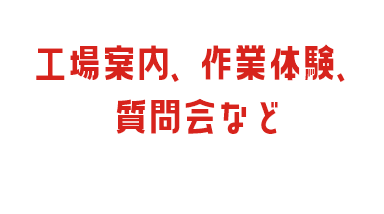
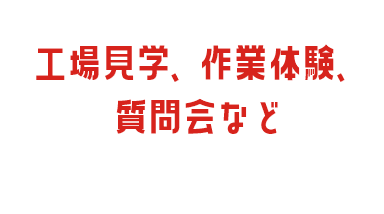
採用お問い合わせページの追加

Changed region(s): [[0.25, 0.1963, 0.4375, 0.3925]]

diff --git a/www/recruitment.html b/www/recruitment.html
@@ -184,14 +184,14 @@
 						その一例が、一般の方々が手に取りやすい直営店舗の運営やネット通販事業など、<br>
 						お客様個々のニーズにも対応したビジネスモデルです。<br>
 
-						総合フードサービスカンパニーとして、これからも「おいしいものをおいしいまま、早く、安心してお届する」<br>
+						総合フードサービスカンパニーとして、これからも「おいしいものをおいしいまま、早く、安心してお届けする」<br>
 						ことを安定して提供し続けられるよう努力し続けることが私たちの使命です。</p>
 
 
 						
 					<div class="wp-block-buttons is-layout-flex wp-block-buttons-is-layout-flex tC sM-l">
 						<div class="wp-block-button is-style-button-style-1">
-							<a class="wp-block-button__link wp-element-button" href="./contact">お問い合わせフォームはこちら</a>
+							<a class="wp-block-button__link wp-element-button" href="./recruitment-contact">今すぐ申し込む（見学・体験・応募）</a>
 						</div>
 					</div>
 
@@ -223,7 +223,7 @@
 									<div class="recruitmentAboutBox__stepBox">
 										<dl>
 											<dt><span>商品を知る</span></dt>
-											<dd>入庫・ピッキング業務などを<br class="hidden-sp">通じて当社の取扱う商品の<br>知識をつけましょう！</dd>
+											<dd>入庫・ピッキング業務などを<br class="hidden-sp">通じて当社の取り扱う商品の知識をつけましょう！</dd>
 										</dl>
 										<dl>
 											<dt><span>知識の拡大</span></dt>
@@ -236,7 +236,7 @@
 									<!-- /.recruitmentAboutBox__stepBox --></div>
 									<div class="recruitmentAboutBox__pointBox">
 										<figure><img src="img/recruitment/imgPoint.png" alt="ポイント"></figure>
-										<p>的確なオペレーション実現のため<br>チームワークを大切にしています！</p>
+										<p>的確なオペレーションを実現するために<br>チームワークを大切にしています！</p>
 									<!-- /.recruitmentAboutBox__pointBox --></div>
 									<figure class="recruitmentAboutBox__sectionImage">
 											<img src="img/recruitment/illustWork01.png" alt="音声システムや自動倉庫など設備機器を使ったお仕事もできます！" class="wide">
@@ -273,7 +273,7 @@
 																	</dl>
 																	<dl>
 																		<dt><span>業務の理解</span></dt>
-																		<dd>営業の流れやコツを少しづつ覚えていきましょう。先輩社員からの指導で効率よく身につきます。</dd>
+																		<dd>営業の流れやコツを少しずつ覚えていきましょう。先輩社員からの指導で効率よく身につきます。</dd>
 																	</dl>
 																	<dl>
 																		<dt><span>関係づくり</span></dt>
@@ -323,7 +323,7 @@
 																<div class="recruitmentAboutBox__stepBox">
 																	<dl>
 																		<dt><span>商品を知る</span></dt>
-																		<dd>入庫・ピッキング業務などを通じて当社の取扱う商品の<br class="hidden-sp">知識をつけましょう！</dd>
+																		<dd>入庫・ピッキング業務などを通じて当社の取扱う商品の知識をつけましょう！</dd>
 																	</dl>
 																	<dl>
 																		<dt><span>手順の理解</span></dt>
@@ -379,7 +379,7 @@
 																	</dl>
 																	<dl>
 																		<dt><span>ひとり立ち</span></dt>
-																		<dd>それぞれの業務を覚えたら、1日の流れに沿って各作業をこなしていきます。柔軟に受注内容の変更対応を行うことも</dd>
+																		<dd>それぞれの業務を覚えたら、1日の流れに沿って各作業を進めていきます。柔軟に受注内容の変更対応を行うこともできます。</dd>
 																	</dl>
 																	<dl>
 																		<dt><span>チャレンジ！</span></dt>
@@ -543,7 +543,7 @@
 
 							<div class="wp-block-buttons is-layout-flex wp-block-buttons-is-layout-flex tC sM-l">
 								<div class="wp-block-button is-style-button-style-1">
-									<a class="wp-block-button__link wp-element-button" href="./contact">お問い合わせフォームはこちら</a>
+									<a class="wp-block-button__link wp-element-button" href="#contactInformation">お問い合わせはこちら</a>
 								</div>
 							</div>
 						<!-- /.inBase__inner --></div>
@@ -562,11 +562,11 @@
 										ぜひお仕事体験にご参加ください！<br>
 										<b>場所：オーディエー株式会社 本社</b>
 									</p>
-									<figure class="recruitmentExperienceBox__fukidashi"><img src="img/recruitment/imgFukidashi01.png" alt="工場案内、作業体験、質問会など" class="wide"></figure>
+									<figure class="recruitmentExperienceBox__fukidashi"><img src="img/recruitment/imgFukidashi01.png" alt="工場見学、作業体験、質問会など" class="wide"></figure>
 								<!-- /.recruitmentExperienceBox__content --></div>
 								<figure><img src="img/recruitment/imgCompany.jpg" alt="オーディエー株式会社" class="wide"></figure>
 							<!-- /.recruitmentExperienceBox__inner --></div>
-							<div class="recruitmentExperienceBox__information">
+							<div class="recruitmentExperienceBox__information" id="contactInformation">
 								<figure><img src="img/recruitment/imgPerson.png" alt="注目" class="wide"></figure>
 								<dl>
 									<dt><span>お問い合わせ</span></dt>
